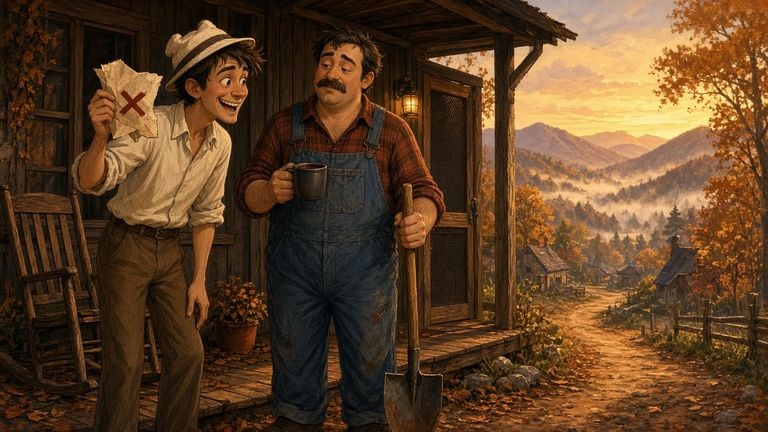
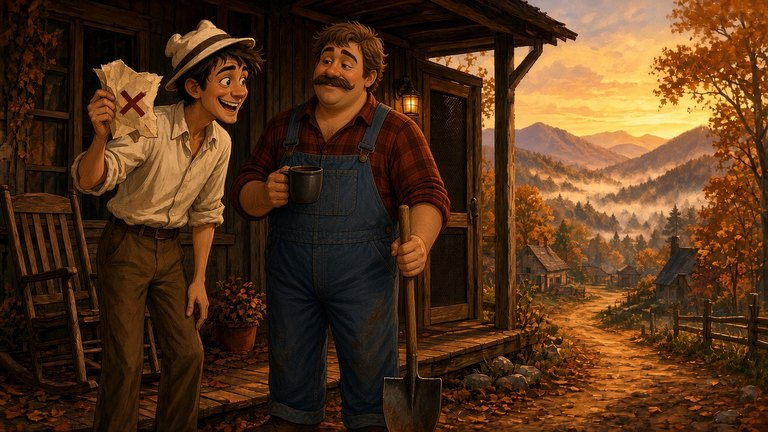
Pine Knot / Jang & Tom series art: Jas's porch image for TV, show page, all episode covers (for now), app cards, live cards, Gazette, og image; SW v39

diff --git a/app/sw.js b/app/sw.js
@@ -1,5 +1,5 @@
-var V='collier-shell-v38',AC='collier-audio-v1';
-var SHELL=['./','index.html','app.css','app.js','fun.js','social.js','club.js','deeplink.js','../js/shows-data.js','../js/live-data.js','../js/dogs-data.js','../images/dogs/cover-thumb.jpg','../js/show.js','../js/show.css','../images/hero/hero-1.jpg','../images/jang-tom-ice-fishin.jpg','../images/jang-tom-rocket-stove.jpg','media/club-spot.mp3','captions.json','manifest.json','../commercials.js','../games.js','../js/a2hs.js','../js/a2hs.css','../js/gazette-data.js','../js/gazette.js','../js/gazette.css','../commercials.css','icons/icon-180.png','icons/icon-192.png','icons/icon-512.png','media/jang-tom-tv.jpg','media/jang-tom-wide.jpg','media/oldman-hunt-card.jpg','../images/jang-and-tom-wagon-masters.jpg','../images/the-first-pulse.jpg','../images/old-man-on-the-mountain.jpg','../images/the-rusty-stack.jpg','../images/jason-art/painting-lighthouse-at-dusk.jpg','../images/jason-art/painting-lighthouse-at-dusk-thumb.jpg'];
+var V='collier-shell-v39',AC='collier-audio-v1';
+var SHELL=['./','index.html','app.css','app.js','fun.js','social.js','club.js','deeplink.js','../js/shows-data.js','../js/live-data.js','../js/dogs-data.js','../images/dogs/cover-thumb.jpg','../js/show.js','../js/show.css','../images/hero/hero-1.jpg','../images/pine-knot.jpg','../images/jang-tom-ice-fishin.jpg','../images/jang-tom-rocket-stove.jpg','media/club-spot.mp3','captions.json','manifest.json','../commercials.js','../games.js','../js/a2hs.js','../js/a2hs.css','../js/gazette-data.js','../js/gazette.js','../js/gazette.css','../commercials.css','icons/icon-180.png','icons/icon-192.png','icons/icon-512.png','media/jang-tom-tv.jpg','media/jang-tom-wide.jpg','media/oldman-hunt-card.jpg','../images/jang-and-tom-wagon-masters.jpg','../images/the-first-pulse.jpg','../images/old-man-on-the-mountain.jpg','../images/the-rusty-stack.jpg','../images/jason-art/painting-lighthouse-at-dusk.jpg','../images/jason-art/painting-lighthouse-at-dusk-thumb.jpg'];
 self.addEventListener('install',function(e){e.waitUntil(caches.open(V).then(function(c){return c.addAll(SHELL)}).then(function(){return self.skipWaiting()}))});
 self.addEventListener('activate',function(e){e.waitUntil(caches.keys().then(function(k){return Promise.all(k.filter(function(n){return n!==V&&n!==AC}).map(function(n){return caches.delete(n)}))}).then(function(){return self.clients.claim()}))});
 self.addEventListener('fetch',function(e){var r=e.request;if(r.method!=='GET')return;var u=new URL(r.url);if(u.origin!==location.origin)return;

diff --git a/js/shows-data.js b/js/shows-data.js
@@ -6,7 +6,7 @@ jangtom:{id:'jangtom',name:'Jang & Tom',kicker:'The Collier Radio Hour',tagline:
  {n:1,key:'ridge',t:"The Treasure of Miller's Ridge",len:'16:49',secs:1009,src:'media/jang-tom-millers-ridge.mp3',art:'app/media/jang-tom-wide.jpg',
   ch:[[0,'Cold open'],[30,'Pine Knot intro'],[114,'Sponsor: I Spy'],[144,'The napkin map & Over Yonder'],[218,'Hugh / Nobody cooks'],[335,"Up Miller's Ridge"],[461,'Loafing'],[527,'The groundhog'],[585,'Old Man Jenkins'],[701,'Sponsor break'],[842,'Treasure on the log'],[888,'Sponsor: The First Pulse'],[935,'Goodnight, Pine Knot']],
   d:"Jang finds a napkin map to Civil War gold. Tom brings the shovel. A barbecue joint called Over Yonder, a cook named Nobody and one very angry groundhog get in the way."},
- {n:2,key:'possum',t:'The Great Possum Caper',len:'18:21',secs:1101,src:'media/jang-tom-possum-caper.mp3',art:'images/hero/hero-1.jpg',
+ {n:2,key:'possum',t:'The Great Possum Caper',len:'18:21',secs:1101,src:'media/jang-tom-possum-caper.mp3',art:'images/pine-knot.jpg',
   d:"Mrs. Whittaker's prize possum, Precious, is loose and there's a $20 reward. Jang splits it \u201cby shares,\u201d plays hawk on the shed roof and lands in the koi pond, while Tom keeps his patience.",
   ch:[[0,'Pine Knot intro'],[29,'Sponsor: The Pine Knot Club'],[105,'Precious escapes'],[162,'The split, by shares'],[284,"Sneaking through Mrs. Whittaker's yard"],[355,'The hawk on the shed'],[467,'Sponsor: The Oil Studio'],[558,'Down the drainpipe'],[597,'The koi pond'],[744,'Precious on the porch'],[834,'The split, again'],[935,'Sponsor: The app'],[1011,'Goodnight, Pine Knot']]},
  {n:3,key:'icefish',t:"The Ice Fishin' Fiasco",len:'14:02',secs:842,src:'media/jang-tom-ice-fishin.mp3',art:'images/jang-tom-ice-fishin.jpg',

diff --git a/js/gazette.js b/js/gazette.js
@@ -1,6 +1,6 @@
 /* Pine Knot Gazette renderer. PKGazette.render(el, {root:'' or '../', app:true|false, compact:true|false, date:Date}) */
 (function(){
-var GO={ep:['audiobooks.html#jang-and-tom-radio','app/media/jang-tom-wide.jpg',{play:'ridge'}],ep2:['audiobooks.html#great-possum-caper','images/hero/hero-1.jpg',{play:'possum'}],ep3:['audiobooks.html#ice-fishin-fiasco','images/jang-tom-ice-fishin.jpg',{play:'icefish'}],ep4:['audiobooks.html#rocket-stove-rebellion','images/jang-tom-rocket-stove.jpg',{play:'rocket'}],bookworlds:['book-worlds/','book-worlds/assets/play-cover.webp'],oldman:['old-man-game/','app/media/oldman-hunt-card.jpg'],
+var GO={ep:['audiobooks.html#jang-and-tom-radio','app/media/jang-tom-wide.jpg',{play:'ridge'}],ep2:['audiobooks.html#great-possum-caper','images/pine-knot.jpg',{play:'possum'}],ep3:['audiobooks.html#ice-fishin-fiasco','images/jang-tom-ice-fishin.jpg',{play:'icefish'}],ep4:['audiobooks.html#rocket-stove-rebellion','images/jang-tom-rocket-stove.jpg',{play:'rocket'}],bookworlds:['book-worlds/','book-worlds/assets/play-cover.webp'],oldman:['old-man-game/','app/media/oldman-hunt-card.jpg'],
  ispy:['i-spy.html','images/scenes/transcon-s01.jpg'],coloring:['coloring.html','coloring/campfire.png'],studio:['studio.html','coloring/campfire.png'],audiobooks:['audiobooks.html','images/the-first-pulse.jpg'],
  books:['books.html','images/jang-and-tom-wagon-masters.jpg'],club:['account.html','app/icons/icon-192.png'],play:['play.html','images/lab/born-twice-og.jpg',{go:'play'}],listen:['audiobooks.html','app/media/jang-tom-tv.jpg',{go:'listen'}],
  firstpulse:['https://fern-valley-glow-reef.grok.me/','images/first-pulse-game.jpg']};

diff --git a/app/index.html b/app/index.html
@@ -36,7 +36,7 @@
   <button class="poster wide" data-play="rocket"><img src="../images/jang-tom-rocket-stove.jpg" alt=""><b>The Rocket Stove Rebellion</b><span>Jang &amp; Tom · Episode 4 · 13:36 · new</span></button>
   <button class="poster wide" data-play="icefish"><img src="../images/jang-tom-ice-fishin.jpg" alt=""><b>The Ice Fishin' Fiasco</b><span>Jang &amp; Tom · Episode 3 · 14:02</span></button>
   <button class="poster wide" data-play="ridge"><img src="media/jang-tom-wide.jpg" alt=""><b>The Treasure of Miller's Ridge</b><span>Jang &amp; Tom radio show · <i class="ep1-len">16:49</i></span></button>
-  <button class="poster wide" data-play="possum"><img src="../images/hero/hero-1.jpg" alt=""><b>The Great Possum Caper</b><span>Jang &amp; Tom · Episode 2 · 18:21</span></button>
+  <button class="poster wide" data-play="possum"><img src="../images/pine-knot.jpg" alt=""><b>The Great Possum Caper</b><span>Jang &amp; Tom · Episode 2 · 18:21</span></button>
   <button class="poster wide jt-show" data-go="jangtom"><img src="media/jang-tom-tv.jpg" alt=""><b>Jang &amp; Tom Radio Show</b><span>Every episode · the Collier Radio Hour</span></button>
   <button class="poster wide" data-frame="past-inspirations.html" data-title="Past Inspirations"><img src="../images/art/philly-s01.jpg" alt=""><b>Past Inspirations</b><span>Old-time radio</span></button>
   <button class="poster wide" data-frame="audiobooks.html#rusty-stack-animatic" data-title="The Rusty Stack"><img src="../images/the-rusty-stack.jpg" alt=""><b>The Rusty Stack</b><span>Animatic preview</span></button></div></div>

diff --git a/app/app.js b/app/app.js
@@ -32,7 +32,7 @@ $('#art').innerHTML=ART.map(function(a){return '<button class="poster sq" data-f
 function item(img,t,s,attrs){return '<button class="item" '+attrs+'><img loading="lazy" src="'+img+'" alt=""><div><b>'+esc(t)+'</b><span>'+s+'</span></div><span class="go">›</span></button>'}
 $('#listenList').innerHTML=
  item('media/jang-tom-tv.jpg',"The Treasure of Miller's Ridge",'Jang & Tom radio show · '+EP1.len+' · chapters & listen-along','data-play="ridge"')+
- item(R+'images/hero/hero-1.jpg','The Great Possum Caper','Jang & Tom radio show · Episode 2 · 18:21 · chapters','data-play="possum"')+
+ item(R+'images/pine-knot.jpg','The Great Possum Caper','Jang & Tom radio show · Episode 2 · 18:21 · chapters','data-play="possum"')+
  item(R+'images/jang-tom-ice-fishin.jpg',"The Ice Fishin' Fiasco",'Jang & Tom radio show · Episode 3 · 14:02 · chapters','data-play="icefish"')+
  item(R+'images/jang-tom-rocket-stove.jpg','The Rocket Stove Rebellion','Jang & Tom radio show · Episode 4 · 13:36 · new · chapters','data-play="rocket"')+
  item('media/jang-tom-tv.jpg','Jang & Tom Radio Show','All episodes · the Collier Radio Hour','data-go="jangtom"')+

diff --git a/audiobooks.html b/audiobooks.html
@@ -161,7 +161,7 @@
 
     <section class="ab-book western-ab" id="jang-and-tom-radio" aria-labelledby="jtr-h">
       <div class="ab-book-head reveal">
-        <img class="ab-cover" src="images/author-as-jang.jpg" alt="Jang in his hat, from the Jang &amp; Tom radio show" loading="lazy">
+        <img class="ab-cover" src="images/pine-knot.jpg" alt="Jang and Tom on the porch in Pine Knot" loading="lazy">
         <div>
           <p class="excerpt-label">Jang &amp; Tom radio show</p>
           <h2 id="jtr-h" class="ab-h western-h">The Treasure of Miller&rsquo;s Ridge</h2>
@@ -174,7 +174,7 @@
 
     <section class="ab-book western-ab" id="great-possum-caper" aria-labelledby="gpc-h">
       <div class="ab-book-head reveal">
-        <img class="ab-cover" src="images/hero/hero-1.jpg" alt="Jang and Tom in Pine Knot" loading="lazy">
+        <img class="ab-cover" src="images/pine-knot.jpg" alt="Jang and Tom in Pine Knot" loading="lazy">
         <div>
           <p class="excerpt-label">Jang &amp; Tom radio show &middot; Episode 2</p>
           <h2 id="gpc-h" class="ab-h western-h">The Great Possum Caper</h2>

diff --git a/jang-tom.html b/jang-tom.html
@@ -24,7 +24,7 @@
 <link rel="stylesheet" href="season.css">
 <link rel="stylesheet" href="info.css">
 <link rel="stylesheet" href="js/show.css?v=2">
-<meta property="og:image" content="https://collierentertainment.com/images/hero/hero-1.jpg">
+<meta property="og:image" content="https://collierentertainment.com/images/pine-knot.jpg">
 <script src="season.js"></script>
 <script src="app-mode.js?v=2"></script>
 </head>
@@ -79,7 +79,7 @@
   <span class="foot-legal"><a href="app/">📲 Get the app</a><a href="privacy.html">Privacy</a><a href="support.html">Support</a><a href="credits.html">Credits</a></span>
 </footer>
 <script src="main.js" defer></script>
-<script src="js/shows-data.js?v=4"></script>
+<script src="js/shows-data.js?v=5"></script>
 <script src="js/show.js?v=2"></script>
 <script>CEShow.render(document.getElementById("show"),{show:"jangtom",root:""});</script>
 </body>

diff --git a/live.html b/live.html
@@ -79,7 +79,7 @@
   <span class="foot-legal"><a href="app/">📲 Get the app</a><a href="privacy.html">Privacy</a><a href="support.html">Support</a><a href="credits.html">Credits</a></span>
 </footer>
 <script src="main.js" defer></script>
-<script src="js/shows-data.js?v=4"></script>
+<script src="js/shows-data.js?v=5"></script>
 <script src="js/show.js?v=2"></script>
 <script src="js/live-data.js?v=7"></script>
 <script src="js/dogs-data.js?v=1"></script>

diff --git a/gazette.html b/gazette.html
@@ -80,7 +80,7 @@
 </footer>
 <script src="main.js" defer></script>
 <script src="js/gazette-data.js?v=3"></script>
-<script src="js/gazette.js?v=3"></script>
+<script src="js/gazette.js?v=4"></script>
 <script>PKGazette.render(document.getElementById("gazette"),{root:""});</script>
 </body>
 </html>
